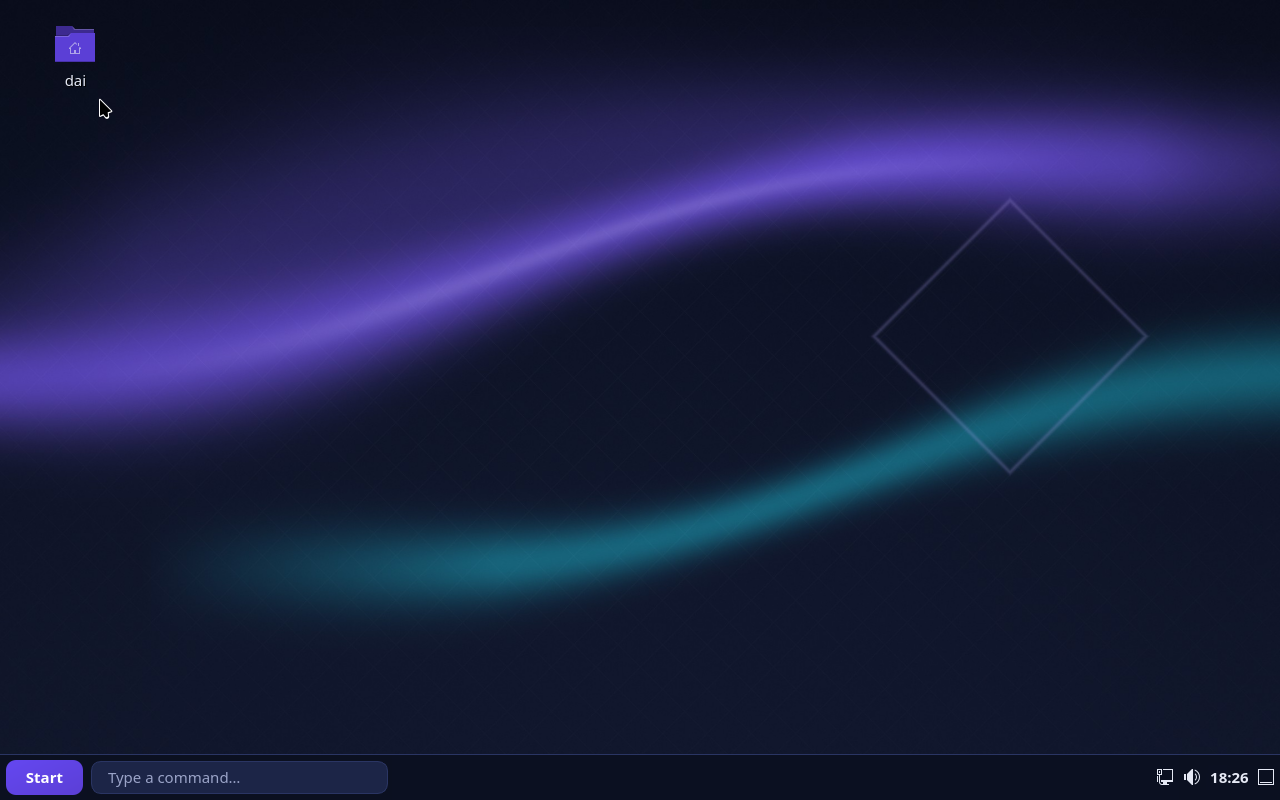
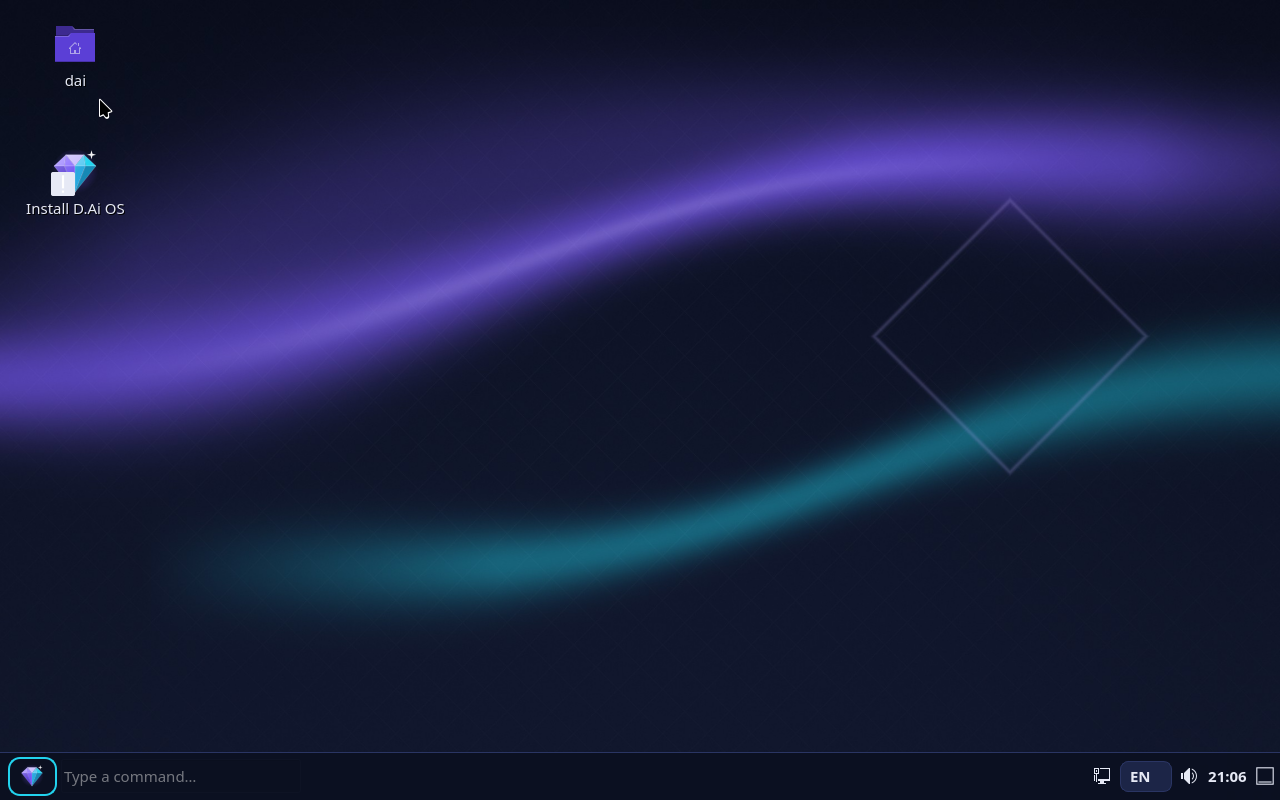
test(boot): real LUKS check; docs: in-VM screenshots of Start, Forge and the installer
- The LUKS check looked for cryptsetup on the live user's PATH, which
  does not include /usr/sbin; check the binary directly and show the
  partitioning configuration (automatic LUKS is Calamares' default).
- README: screenshots from the running image (CI, real input): the
  diamond Start button and menu, D.Ai Forge opened from the command
  line, the branded installer; refreshed desktop screenshot.

Claude-Session: https://claude.ai/code/session_01Vg2u3fEwYHBgtWLCRkp3Co

Changed region(s): [[0.0, 0.9375, 0.3125, 1.0], [0.8438, 0.9375, 1.0, 1.0], [0.0312, 0.1875, 0.0938, 0.2812]]

diff --git a/tests/boot/serial_check.py b/tests/boot/serial_check.py
@@ -218,9 +218,11 @@ def main() -> int:
          "test -f ~/Desktop/dai-install.desktop && echo ON_DESKTOP", True,
          lambda o: "/calamares" in o and "branding: dai" in o and "username: dai" in o
          and "show.qml" in o and "ON_DESKTOP" in o),
-        ("installer: LUKS available", "command -v cryptsetup; grep -rhoE 'enableLuksAutomatedPartitioning:[^#]*' "
-         "/etc/calamares/modules/partition.conf /usr/share/calamares/modules/partition.conf 2>/dev/null | head -n1", False,
-         lambda o: "cryptsetup" in o and "true" in o),
+        # Encryption: cryptsetup in the image and Calamares' automatic LUKS partitioning (on unless a
+        # config turns it off; Calamares' default is true).
+        ("installer: LUKS available", "test -x /usr/sbin/cryptsetup && echo CRYPTSETUP_OK; "
+         "cat /etc/calamares/modules/partition.conf 2>/dev/null | grep -iE '^[^#]*luks' || echo 'luks: calamares default'", True,
+         lambda o: "CRYPTSETUP_OK" in o and "enableLuksAutomatedPartitioning: false" not in o),
         ("forge: window installed", "dai-forge-gui --version; test -f /usr/share/applications/dai-forge.desktop && echo IN_MENU; "
          "grep -c 'ownIcon=true' /etc/xdg/lxqt/panel.conf; test -f /etc/swaylock/config && echo LOCK_THEMED", True,
          lambda o: "Diamond Rubinny (d.Ai)" in o and "IN_MENU" in o and "LOCK_THEMED" in o),

diff --git a/README.md b/README.md
@@ -67,6 +67,12 @@ Shortcuts: `Super+Space` D.Ai Command, `Super+Enter` terminal, `Super+E` files, 
 
 ![D.Ai Command open over the file manager](docs/screenshots/command-bar.png)
 
+Inside the running image (captured by CI with real keyboard/mouse input):
+
+| 💎 Start | D.Ai Forge from the command line | Installer (Calamares, encrypted) |
+|----------|----------------------------------|----------------------------------|
+| ![The diamond Start button and the Start menu](docs/screenshots/start-menu.png) | ![D.Ai Forge opened with "+install antivirus"](docs/screenshots/forge-window.png) | ![The D.Ai OS installer welcome page](docs/screenshots/installer.png) |
+
 D.Ai Forge (rendered from the real window code; in-VM screenshots are published by CI):
 
 | Ask | Review the plan | The local AI writes the app |
